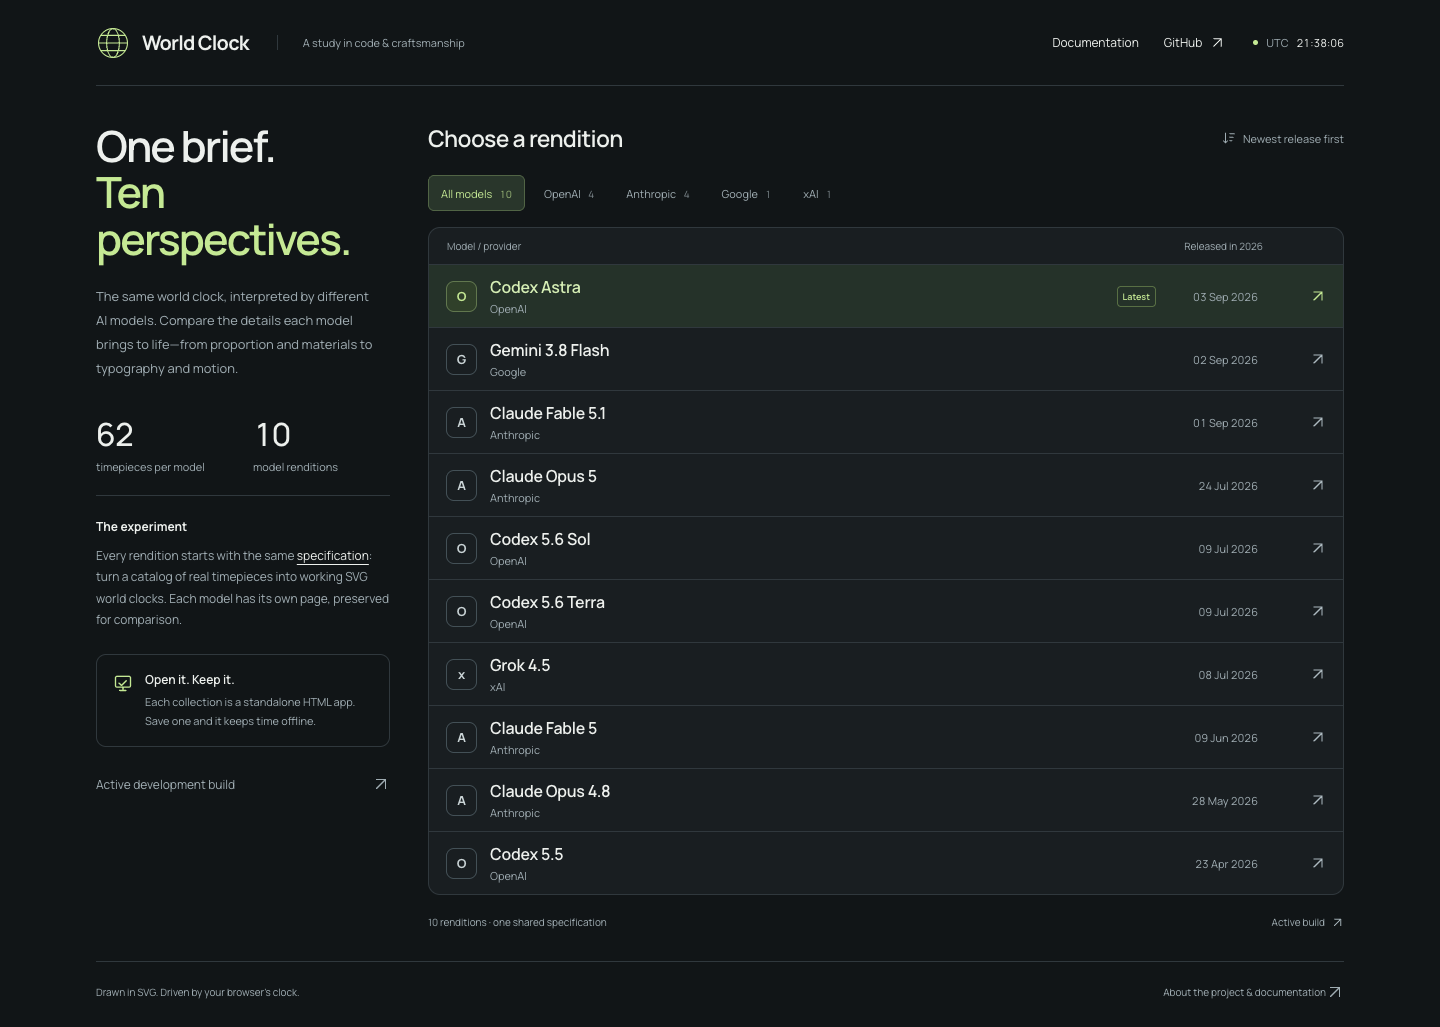
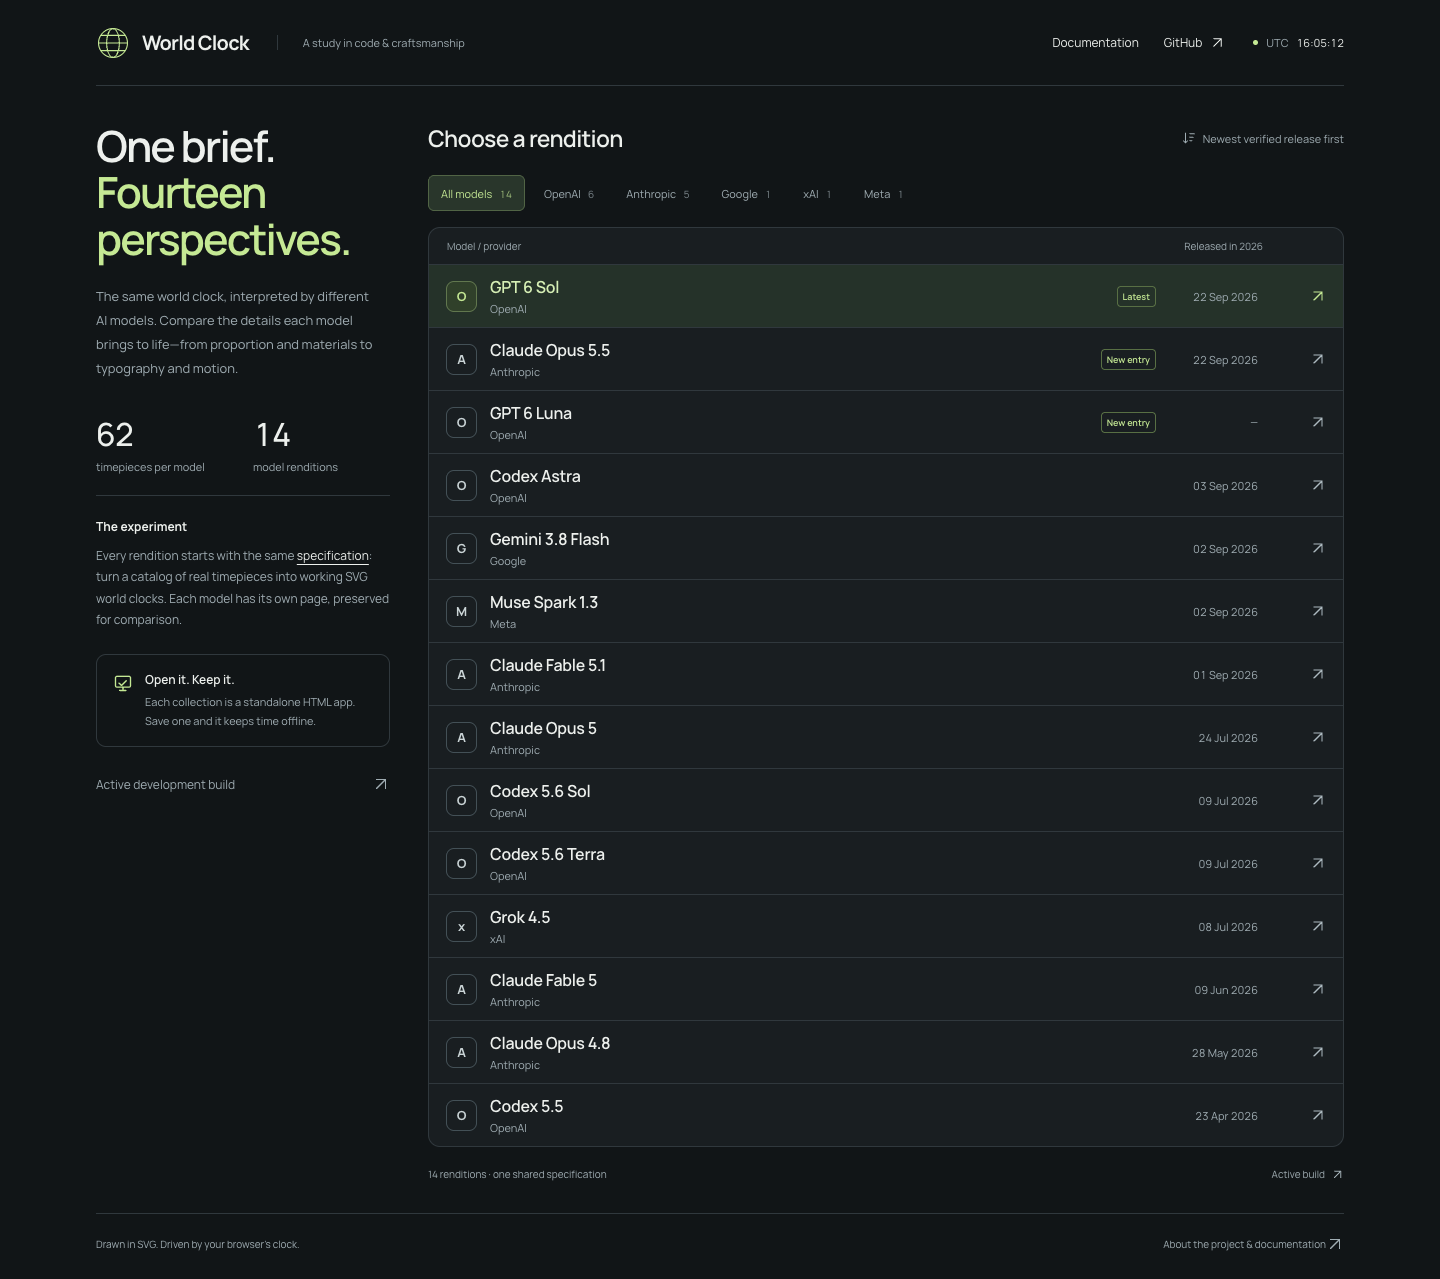
Refresh README for the fourteen-model directory (#117)
Recapture the index screenshots at desktop and phone widths so the
README hero shows the current fourteen-model directory. Use direct
image URLs for the Claude Opus 5.5 and GPT 6 Sol screenshots, matching
the other embedded README images, and add dawn to the Opus 5.5
sky-state description.

diff --git a/README.md b/README.md
@@ -51,15 +51,15 @@ The [active development build](world-clock.html) remains available separately. I
 
 The shared brief covers city search, adding and removing cities, individual and all-city face shuffles, ordering by UTC offset, and live local times. The catalog spans mechanical and digital watches, architectural clocks, pocket watches, and character timepieces.
 
-Claude Opus 5.5 implements all 62 faces in a new standalone page, written from scratch with its own time engine and SVG drawing kit. Each face moves at its catalog cadence, from beat-rate sweeps to switched LCD segments. Every city card shows a daylight, dusk or night badge from the sun’s position, and pieces can be posed and inspected up close. [Read its reference and approximation notes](docs/claude-opus-5.5-reference-notes.md).
+Claude Opus 5.5 implements all 62 faces in a new standalone page, written from scratch with its own time engine and SVG drawing kit. Each face moves at its catalog cadence, from beat-rate sweeps to switched LCD segments. Every city card shows a daylight, dawn, dusk or night badge from the sun’s position, and pieces can be posed and inspected up close. [Read its reference and approximation notes](docs/claude-opus-5.5-reference-notes.md).
 
-![Claude Opus 5.5’s 62 SVG timepieces in catalog order](docs/assets/claude-opus-5.5-faces.png)
+![Claude Opus 5.5’s 62 SVG timepieces in catalog order](https://raw.githubusercontent.com/christopherrbrown3/world-clock/main/docs/assets/claude-opus-5.5-faces.png)
 
 GPT 6 Luna implements all 62 faces in a standalone page with an independent time engine, individually drawn SVGs, saved city settings, a searchable collection, enlarged inspection, and chronograph controls. [Read its reference and approximation notes](docs/gpt-6-luna-reference-notes.md).
 
 GPT 6 Sol implements all 62 faces in a new standalone page with individually authored SVG geometry, saved city settings, a searchable collection, enlarged inspection, and chronograph controls. [Read the reference and approximation notes](docs/gpt-6-sol-reference-notes.md).
 
-![GPT 6 Sol's 62 individually drawn SVG timepieces in catalog order](docs/assets/gpt-6-sol-faces.png)
+![GPT 6 Sol's 62 individually drawn SVG timepieces in catalog order](https://raw.githubusercontent.com/christopherrbrown3/world-clock/main/docs/assets/gpt-6-sol-faces.png)
 
 Astra implements all 62 faces with its own SVG toolkit and time engine, 176 selectable cities, saved city settings, a searchable collection, enlarged inspection, and chronograph controls.
 

diff --git a/CHANGELOG.md b/CHANGELOG.md
@@ -4,6 +4,7 @@ Notable project changes will be tracked here.
 
 ## Unreleased
 
+- Refreshed the README for the fourteen-model directory: recaptured the index screenshots at desktop and phone widths, used direct image URLs for every embedded README screenshot, and corrected the Claude Opus 5.5 sky-state description.
 - Added Claude Opus 5.5 as a new standalone rendition, authored from scratch with its own interface, time engine, SVG drawing kit, and all 62 timepieces, each moving at its catalog cadence. Added it to the project index, README, snapshot manifest, and release-date notes, with reference and approximation notes and documentation screenshots. Its release date, September 22, 2026, is verified against Anthropic’s announcement.
 - Added GPT 6 Luna as a new standalone rendition, authored from scratch with 62 individually drawn SVG timepieces, its own time and city controls, a searchable collection, inspection view, and chronograph tools. Added it to the project index, README, and snapshot manifest; documented locally consulted references and approximations. Its model release date remains unverified.
 - Added GPT 6 Sol as a standalone, independently authored rendition of all 62 watch and clock faces, with live time-zone clocks, reference-led SVG drawings, city controls, a searchable collection, inspection view, and chronograph controls. Added it to the directory and manifest without changing prior model pages. The maintainer confirmed September 22, 2026 as its release date.
